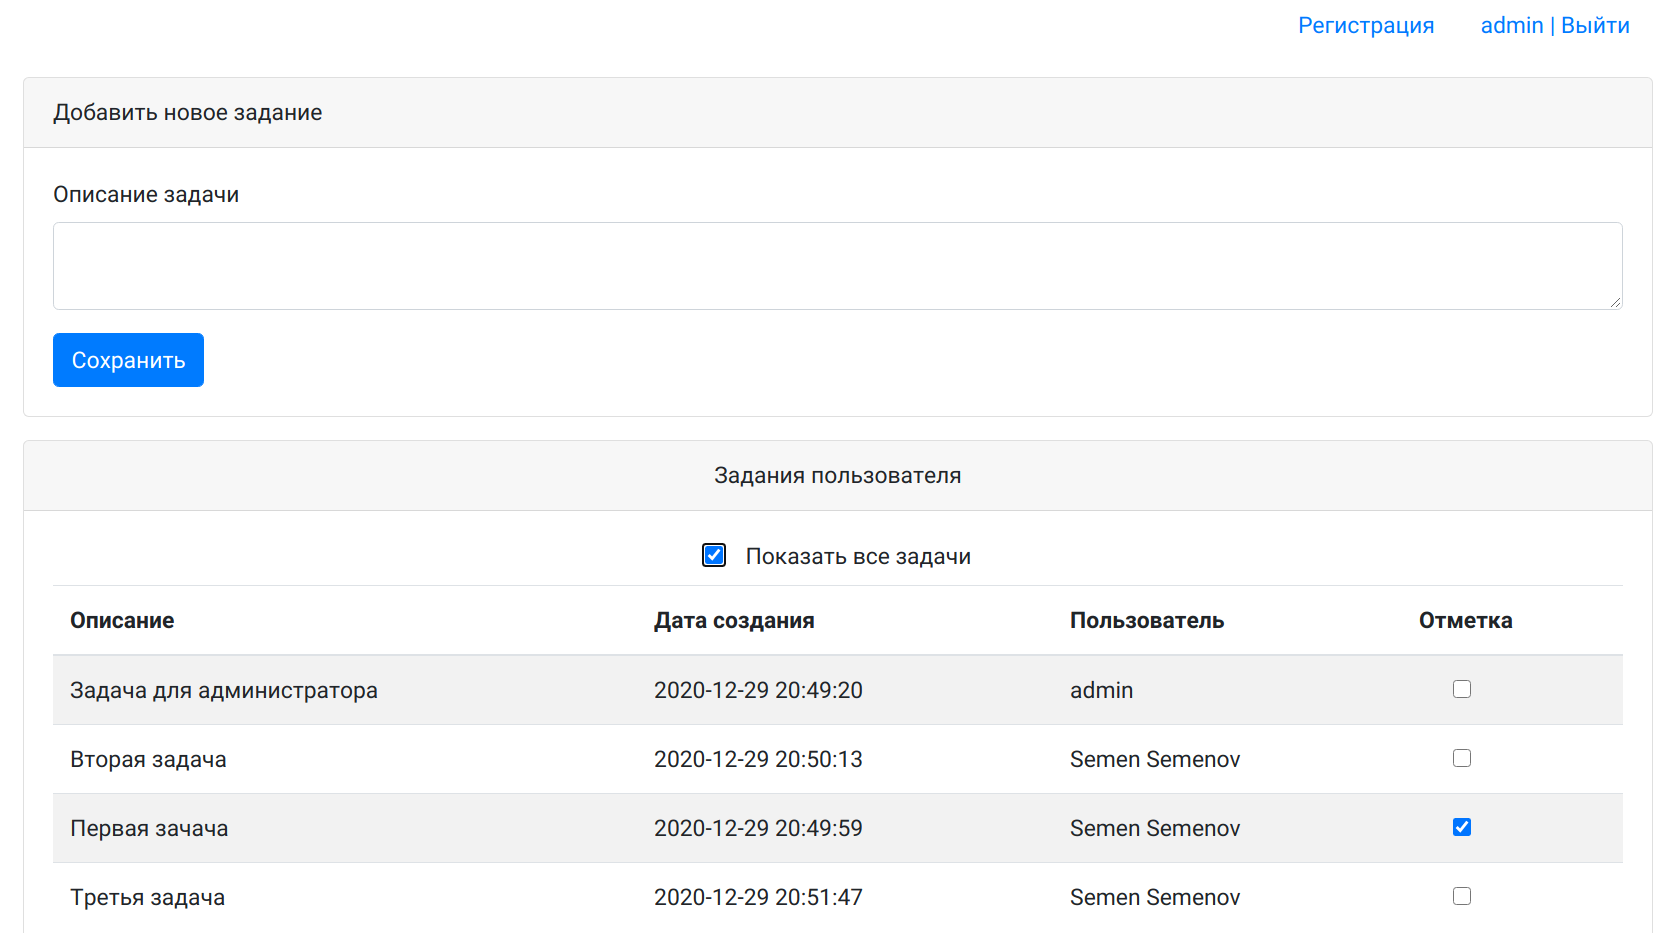
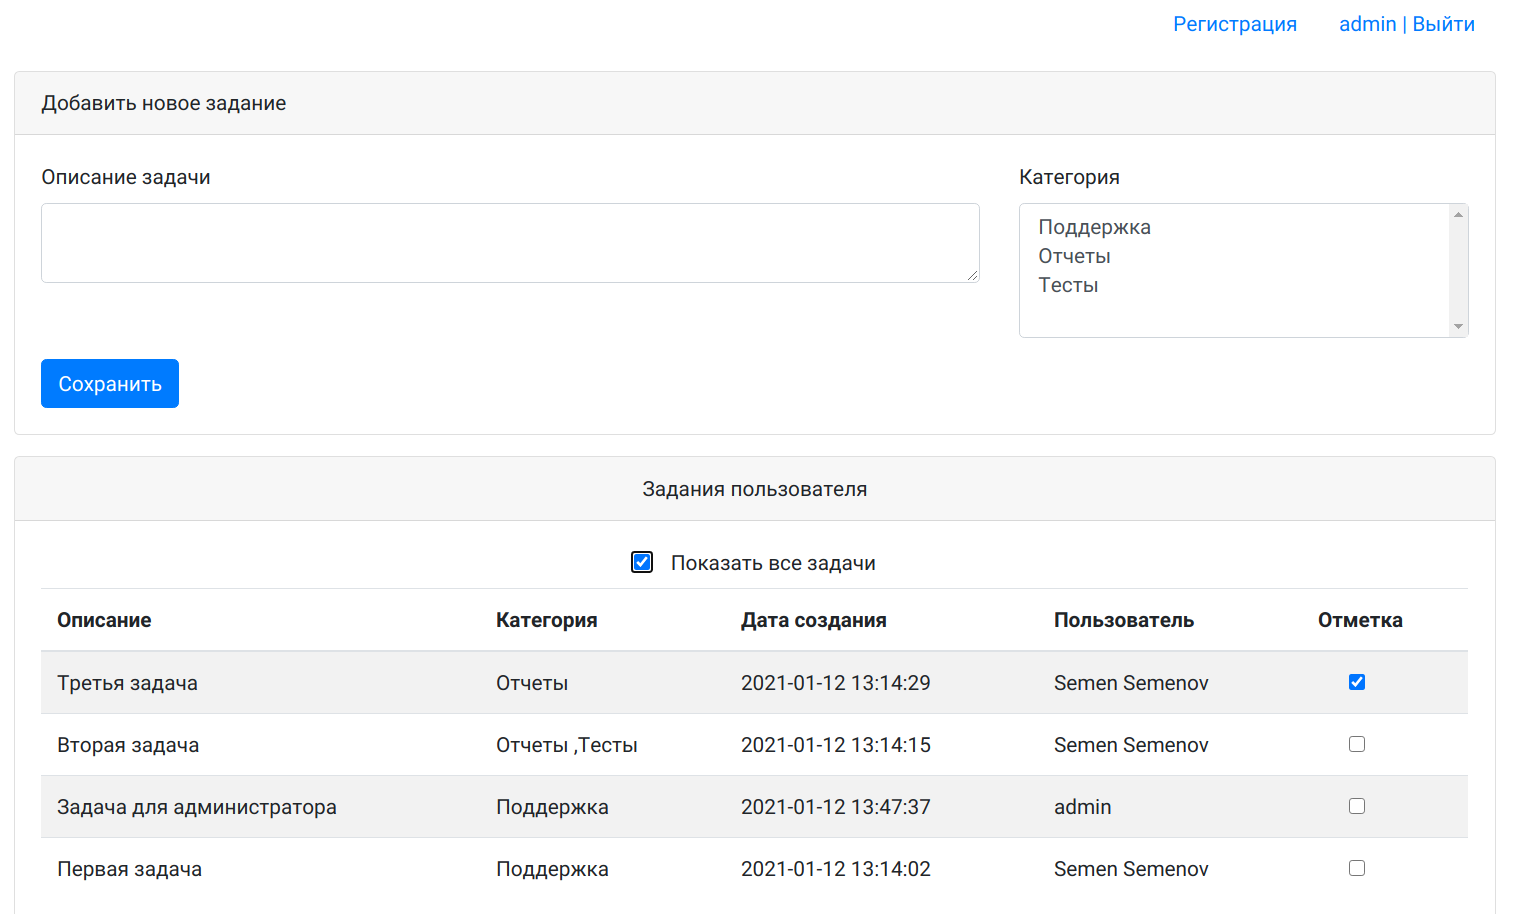
4. Категории в TODO List [#380820]

diff --git a/src/main/webapp/scripts/script.js b/src/main/webapp/scripts/script.js
@@ -44,6 +44,7 @@ function printTasks(state) {
             for (let i = 0; i < data.length; i++) {
                 let id = data[i].id;
                 let description = data[i].description;
+                let categories = data[i].categories;
                 let created = data[i].created;
                 let checked = '';
                 if (state === true) {
@@ -60,6 +61,7 @@ function printTasks(state) {
 
                 function printRow() {
                     text += '<tr><td>' + description + '</td>';
+                    text += '<td>' + categories + '</td>';
                     text += '<td>' + created + '</td>';
                     text += '<td>' + data[i].user + '</td>';
                     text += '<td><input class="ml-4" type="checkbox" id="' + id + '" value="" ' + checked + ' onclick="isDone(' + id + ')"></td></tr>';
@@ -84,12 +86,18 @@ function send() {
 
 function sendTask(fn) {
     let description = $('#textarea').val();
-    if (validate(description)) {
+    let category = $('#categories').val();
+    let task = {
+        description: description,
+        category: category
+    }
+    if (validate(description, category)) {
+        console.log('!!!')
         $.ajax({
             type: 'POST',
             url: 'http://localhost:8080/todo/task.do',
             contentType: 'JSON',
-            data: JSON.stringify({description: description})
+            data: JSON.stringify(task)
         }).done(function (data) {
             fn(data);
         }).fail(function () {
@@ -103,7 +111,6 @@ $(document).ready(function () {
         type: 'GET',
         url: 'http://localhost:8080/todo/user.do',
     }).done(function (name) {
-        console.log(name)
         if (name === '') {
             $('#auth').append().html('<a class="nav-link" href="/todo/auth.do">Войти</a>')
         } else {
@@ -114,9 +121,35 @@ $(document).ready(function () {
     })
 })
 
-function validate(param) {
-    if (param === '') {
+$(document).ready(function printCategories() {
+    $.ajax({
+        type: 'GET',
+        url: 'http://localhost:8080/todo/categories.do',
+        dataType: 'JSON'
+    }).done(function (data) {
+        if (data !== null) {
+            let textRow = $('#categories').html('');
+            let text = '';
+            for (let i = 0; i < data.length; i++) {
+                let id = data[i].id;
+                let name = data[i].name;
+                text += '<option value="' + id + '">' + name + '</option>';
+            }
+            textRow.append(text);
+        }
+    }).fail(function () {
+        alert('An error occurred!');
+    })
+})
+
+
+function validate(desc, category) {
+    if (desc === '') {
         alert("Опишите задачу");
         return false;
-    } else return true
+    } else if (category.length === 0) {
+        alert("Выберите категорию");
+        return false;
+    }
+    return true;
 }

diff --git a/src/main/webapp/index.html b/src/main/webapp/index.html
@@ -40,9 +40,15 @@
             </div>
             <div class="card-body">
                 <form method="post" accept-charset="UTF-8" enctype="text/plain">
-                    <div class="form-group">
-                        <label for="textarea">Описание задачи</label>
-                        <textarea class="form-control" id="textarea" name="taskDescription" rows="2"></textarea>
+                    <div class="row">
+                        <div class="form-group col-sm-8">
+                            <label for="textarea">Описание задачи</label>
+                            <textarea class="form-control" id="textarea" name="taskDescription" rows="2"></textarea>
+                        </div>
+                        <div class="form-group col-sm-4">
+                            <label for="categories">Категория</label>
+                            <select class="form-control" name="categories" id="categories" multiple></select>
+                        </div>
                     </div>
                     <button type="button" class="btn btn-primary" onclick="return send()">Сохранить</button>
                 </form>
@@ -67,6 +73,7 @@
                     </tr>
                     <tr>
                         <th scope="col">Описание</th>
+                        <th scope="col">Категория</th>
                         <th scope="col">Дата создания</th>
                         <th scope="col">Пользователь</th>
                         <th scope="col">Отметка</th>

diff --git a/src/main/java/ru/job4j/todo/persistence/HbmTask.java b/src/main/java/ru/job4j/todo/persistence/HbmTask.java
@@ -1,6 +1,7 @@
 package ru.job4j.todo.persistence;
 
 import lombok.extern.slf4j.Slf4j;
+import ru.job4j.todo.model.Category;
 import ru.job4j.todo.model.Task;
 
 import java.util.List;
@@ -26,6 +27,19 @@ public class HbmTask implements Store<Task> {
         return model;
     }
 
+
+    public Task add(Task task, String[] ids) {
+        this.tx(session -> {
+            for (String id : ids) {
+                Category category = session.find(Category.class, Integer.parseInt(id));
+                task.addCategory(category);
+            }
+            session.persist(task);
+            return true;
+        });
+        return task;
+    }
+
     @Override
     public boolean replace(int id, Task model) {
         return this.tx(session -> {
@@ -37,21 +51,21 @@ public class HbmTask implements Store<Task> {
     @Override
     public boolean delete(int id) {
         return this.tx(session -> {
-            Task model = new Task();
-            model.setId(id);
-            session.delete(model);
+            Task model = session.get(Task.class, id);
+            session.remove(model);
             return true;
         });
     }
 
     @Override
     public List<Task> findAll() {
-        return this.tx(session -> session.createQuery("from Task").list());
+        return this.tx(session -> session.createQuery("select distinct c from Task c join fetch c.categories",
+                Task.class).list());
     }
 
     @Override
     public List<Task> findByName(String name) {
-        return this.tx(session -> session.createQuery("from Task where description = :description")
+        return this.tx(session -> session.createQuery("from Task where description = :description", Task.class)
                 .setParameter("description", name).list()
         );
     }
@@ -59,5 +73,9 @@ public class HbmTask implements Store<Task> {
     @Override
     public Task findById(int id) {
         return this.tx(session -> session.get(Task.class, id));
+    }
+
+    public static void main(String[] args) {
+        STORE.delete(141);
     }
 }

diff --git a/src/main/java/ru/job4j/todo/controller/TaskServlet.java b/src/main/java/ru/job4j/todo/controller/TaskServlet.java
@@ -1,11 +1,13 @@
 package ru.job4j.todo.controller;
 
+import com.google.gson.Gson;
 import com.google.gson.JsonArray;
 import com.google.gson.JsonObject;
 import lombok.extern.slf4j.Slf4j;
 import org.json.simple.JSONObject;
 import org.json.simple.parser.JSONParser;
 import org.json.simple.parser.ParseException;
+import ru.job4j.todo.model.Category;
 import ru.job4j.todo.model.Role;
 import ru.job4j.todo.model.Task;
 import ru.job4j.todo.model.User;
@@ -70,6 +72,9 @@ public class TaskServlet extends HttpServlet {
             JsonObject jsonObject = new JsonObject();
             jsonObject.addProperty("id", task.getId());
             jsonObject.addProperty("description", task.getDescription());
+            List<Category> list = task.getCategories();
+            String categories = list.stream().map(Category::getName).collect(Collectors.joining(" ,"));
+            jsonObject.addProperty("categories", categories);
             jsonObject.addProperty("created", dateFormat(task.getCreated()));
             jsonObject.addProperty("done", task.isDone());
             if ("admin".equals(role.getName())) {
@@ -106,7 +111,8 @@ public class TaskServlet extends HttpServlet {
                     resp.getWriter().println("auth.do");
                 } else {
                     String description = jsonObject.get("description").toString();
-                    TASK_STORE.add(new Task(description, user));
+                    String[] categoryId = new Gson().fromJson(jsonObject.get("category").toString(), String[].class);
+                    HbmTask.getStore().add(new Task(description, user), categoryId);
                 }
             } else {
                 int id = Integer.parseInt(jsonObject.get("id").toString());

diff --git a/src/main/java/ru/job4j/todo/persistence/HbmCategory.java b/src/main/java/ru/job4j/todo/persistence/HbmCategory.java
@@ -1,0 +1,62 @@
+package ru.job4j.todo.persistence;
+
+import ru.job4j.todo.model.Category;
+import ru.job4j.todo.model.Task;
+
+import java.util.List;
+
+/**
+ * Class HbmCategory.
+ *
+ * @author Vitaly Yagufarov (for.viy@gmail.com)
+ * @version 1.0
+ * @since 09.01.2021
+ */
+public class HbmCategory implements Store<Category> {
+    private static final HbmCategory STORE = new HbmCategory();
+
+    public static HbmCategory getStore() {
+        return STORE;
+    }
+
+    @Override
+    public Category add(Category model) {
+        this.tx(session -> session.save(model));
+        return model;
+    }
+
+    @Override
+    public boolean replace(int id, Category model) {
+        return this.tx(session -> {
+            session.update(String.valueOf(id), model);
+            return true;
+        });
+    }
+
+    @Override
+    public boolean delete(int id) {
+        return this.tx(session -> {
+            Category model = new Category();
+            model.setId(id);
+            session.delete(model);
+            return true;
+        });
+    }
+
+    @Override
+    public List<Category> findAll() {
+        return this.tx(session -> session.createQuery("from Category", Category.class).list());
+    }
+
+    @Override
+    public List<Category> findByName(String name) {
+        return this.tx(session -> session.createQuery("from Category where name = :name", Category.class)
+                .setParameter("name", name).list()
+        );
+    }
+
+    @Override
+    public Category findById(int id) {
+        return this.tx(session -> session.get(Category.class, id));
+    }
+}

diff --git a/src/main/java/ru/job4j/todo/controller/CategoryServlet.java b/src/main/java/ru/job4j/todo/controller/CategoryServlet.java
@@ -1,0 +1,44 @@
+package ru.job4j.todo.controller;
+
+import com.google.gson.JsonArray;
+import com.google.gson.JsonObject;
+import lombok.extern.slf4j.Slf4j;
+import ru.job4j.todo.model.Category;
+import ru.job4j.todo.persistence.HbmCategory;
+import ru.job4j.todo.persistence.Store;
+
+import javax.servlet.ServletException;
+import javax.servlet.annotation.WebServlet;
+import javax.servlet.http.HttpServlet;
+import javax.servlet.http.HttpServletRequest;
+import javax.servlet.http.HttpServletResponse;
+import java.io.IOException;
+import java.util.List;
+
+/**
+ * Class CategoryServlet.
+ *
+ * @author Vitaly Yagufarov (for.viy@gmail.com)
+ * @version 1.0
+ * @since 10.01.2021
+ */
+@Slf4j
+@WebServlet("/categories.do")
+public class CategoryServlet extends HttpServlet {
+    private static final Store<Category> CATEGORY_STORE = HbmCategory.getStore();
+
+    @Override
+    protected void doGet(HttpServletRequest req, HttpServletResponse resp) throws ServletException, IOException {
+        req.setCharacterEncoding("UTF-8");
+        resp.setContentType("application/json; charset=UTF-8");
+        List<Category> categories = CATEGORY_STORE.findAll();
+        JsonArray jsonArray = new JsonArray();
+        categories.forEach(category -> {
+            JsonObject jsonObject = new JsonObject();
+            jsonObject.addProperty("id", category.getId());
+            jsonObject.addProperty("name", category.getName());
+            jsonArray.add(jsonObject);
+        });
+        resp.getWriter().println(jsonArray);
+    }
+}

diff --git a/src/main/java/ru/job4j/todo/model/Category.java b/src/main/java/ru/job4j/todo/model/Category.java
@@ -1,0 +1,34 @@
+package ru.job4j.todo.model;
+
+import lombok.Data;
+import lombok.EqualsAndHashCode;
+import lombok.NoArgsConstructor;
+
+import javax.persistence.*;
+import java.util.ArrayList;
+import java.util.List;
+
+/**
+ * Class Category.
+ *
+ * @author Vitaly Yagufarov (for.viy@gmail.com)
+ * @version 1.0
+ * @since 09.01.2021
+ */
+@Entity
+@Data
+@NoArgsConstructor
+@EqualsAndHashCode
+@Table(name = "categories")
+public class Category {
+    @Id
+    @GeneratedValue(strategy = GenerationType.IDENTITY)
+    private int id;
+    private String name;
+
+    public static Category of(String name) {
+        final Category category = new Category();
+        category.name = name;
+        return category;
+    }
+}

diff --git a/src/main/java/ru/job4j/todo/model/Task.java b/src/main/java/ru/job4j/todo/model/Task.java
@@ -4,6 +4,8 @@ import lombok.*;
 
 import javax.persistence.*;
 import java.sql.Timestamp;
+import java.util.ArrayList;
+import java.util.List;
 
 /**
  * Class Task.
@@ -30,4 +32,11 @@ public class Task {
     @ManyToOne
     @JoinColumn(name = "user_id")
     private User user;
+
+    @ManyToMany(cascade = {CascadeType.PERSIST, CascadeType.MERGE})
+    private List<Category> categories = new ArrayList<>();
+
+    public void addCategory(Category category) {
+        this.categories.add(category);
+    }
 }
